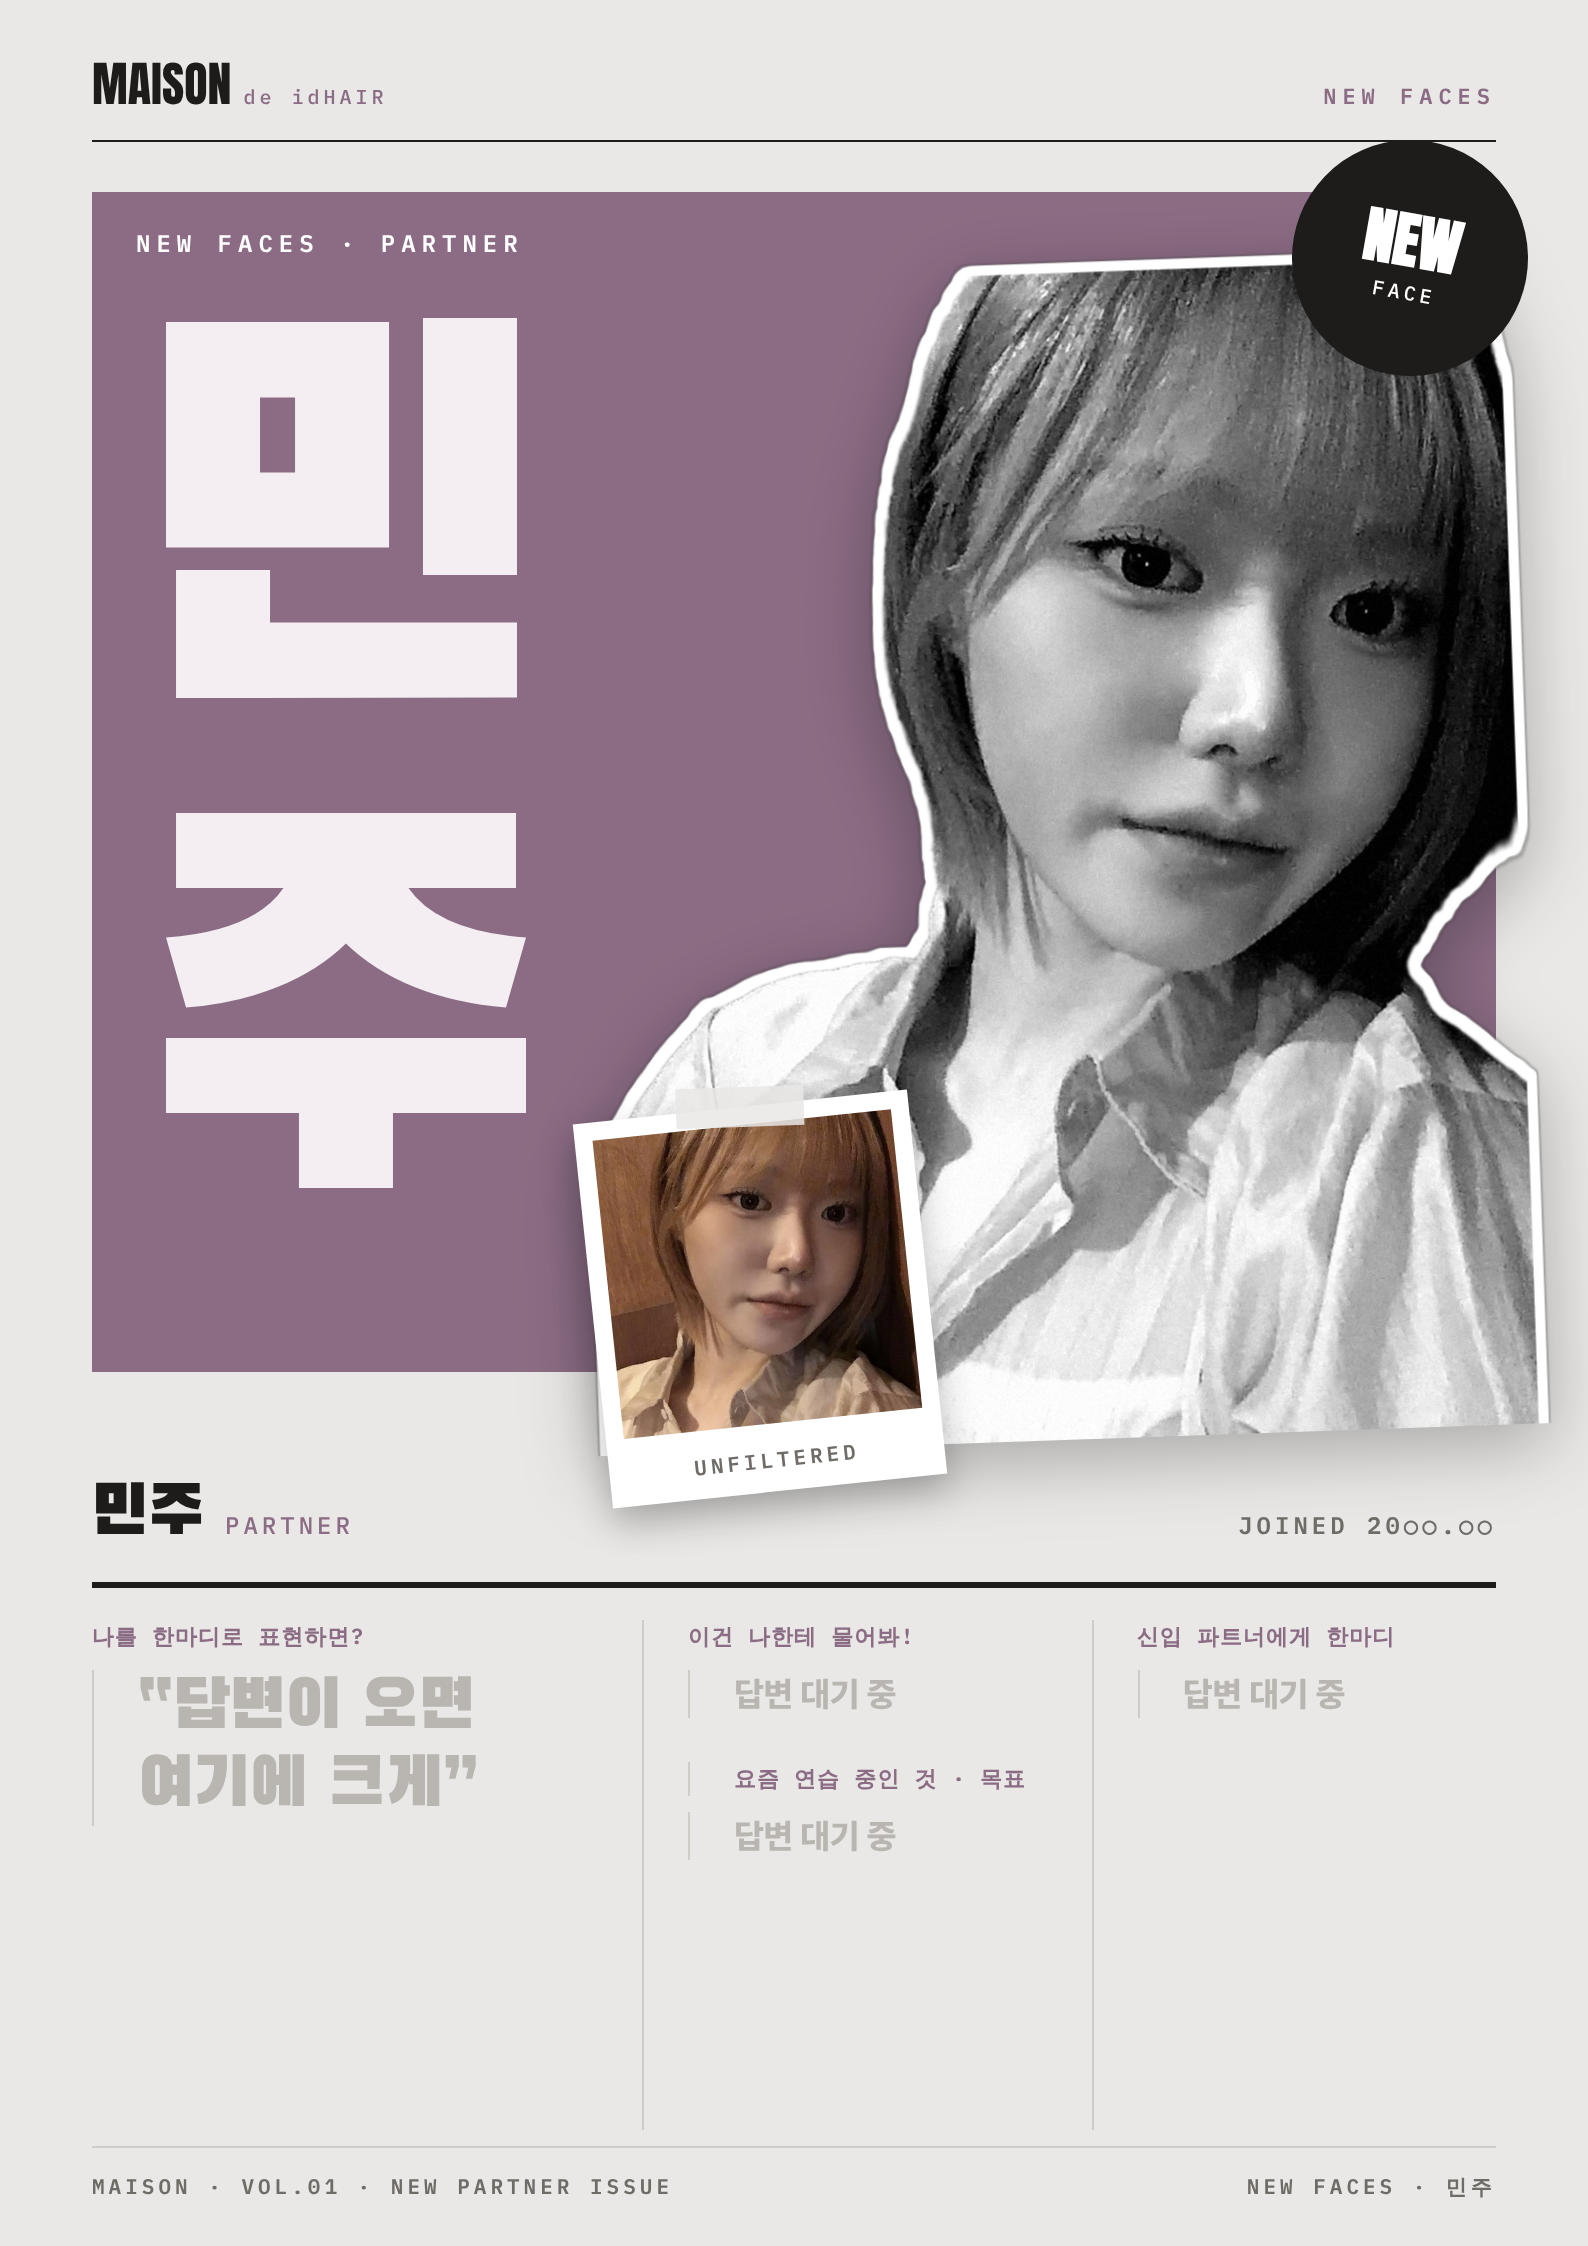
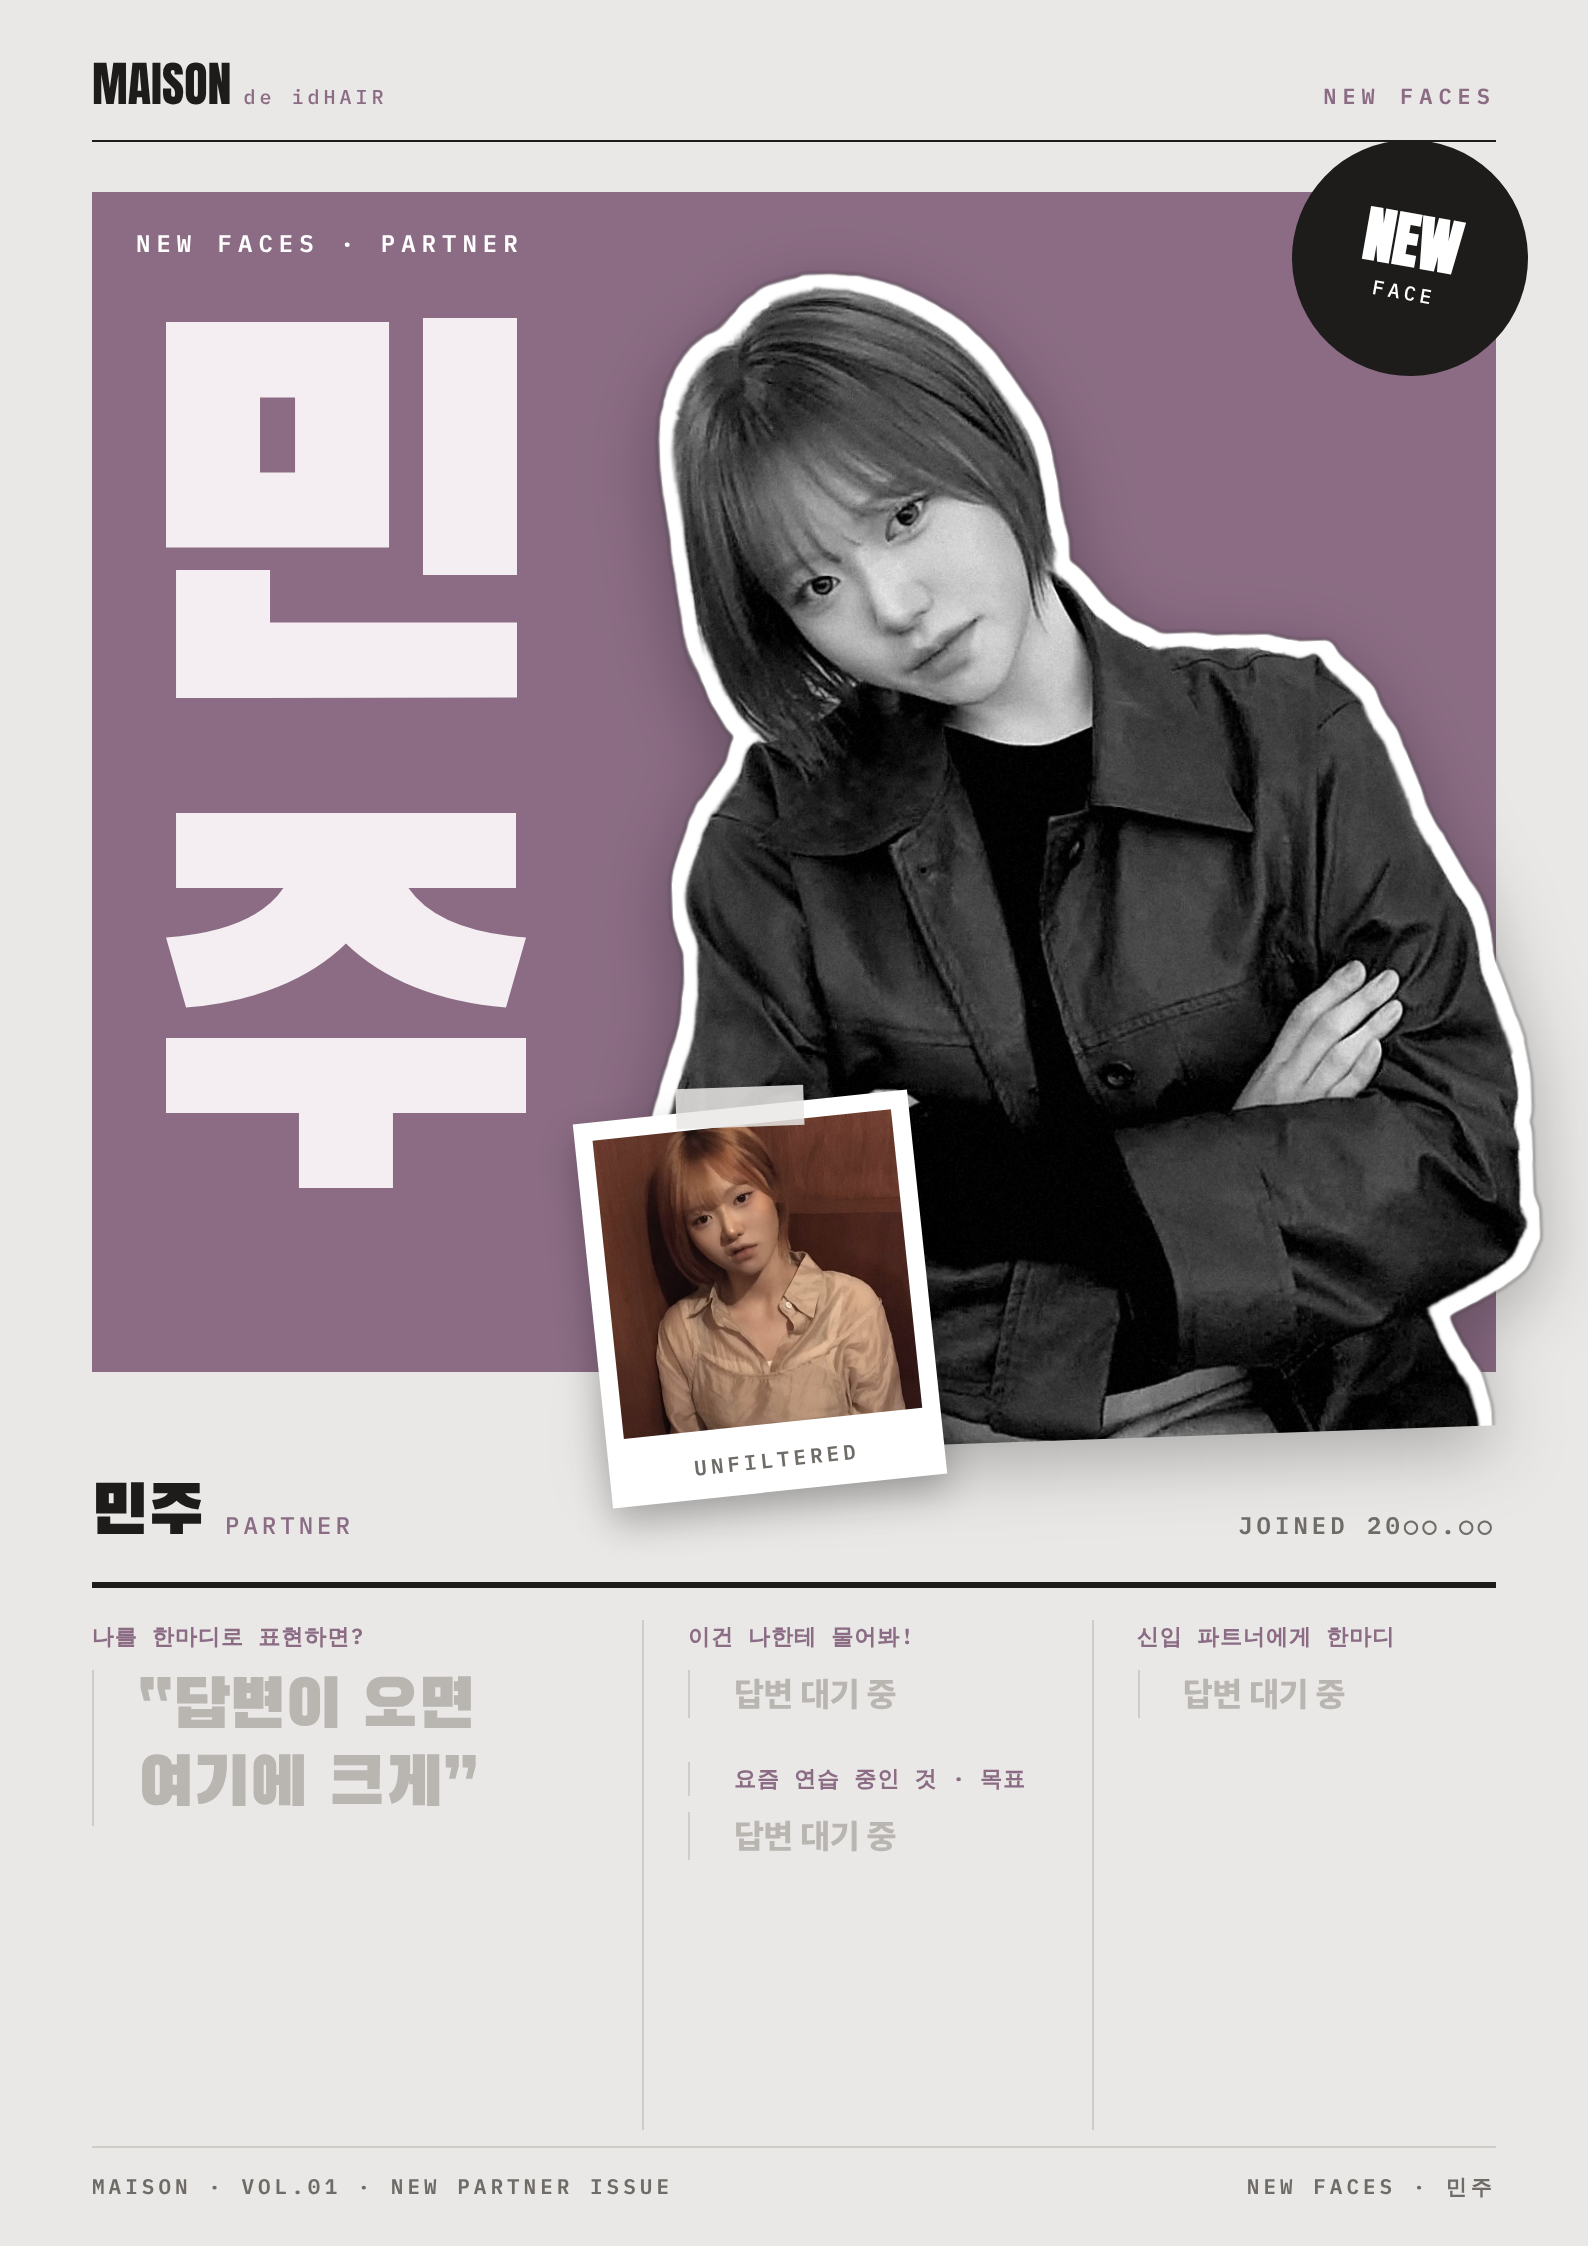
Partner page concept: new photos for 민주
Claude-Session: https://claude.ai/code/session_01G7xqjdnG5meosPjGnPpVVE

Changed region(s): [[0.3703, 0.0935, 0.9874, 0.6545]]

diff --git a/salon/ppt_build/sticker2.py b/salon/ppt_build/sticker2.py
@@ -1,0 +1,40 @@
+# 메인 사진 → 흑백 스티커(BiRefNet 마스크), 두 번째 사진 → 컬러 폴라로이드
+import sys, numpy as np, onnxruntime as ort
+from PIL import Image, ImageOps, ImageEnhance, ImageFilter
+D = "/tmp/claude-0/-home-user-daily-cards/06ef2264-b127-5a98-911e-16c520eb086c/scratchpad/minju/"
+main, second = sys.argv[1], sys.argv[2]
+src = Image.open(main).convert("RGB")
+
+x = np.asarray(src.resize((1024, 1024), Image.LANCZOS)).astype(np.float32) / 255.0
+x = ((x - [0.485, 0.456, 0.406]) / [0.229, 0.224, 0.225]).transpose(2, 0, 1)[None].astype(np.float32)
+sess = ort.InferenceSession(D + "birefnet.onnx", providers=["CPUExecutionProvider"])
+p = 1 / (1 + np.exp(-sess.run(None, {"input_image": x})[0][0, 0]))
+m = Image.fromarray((np.clip(p, 0, 1) * 255).astype(np.uint8)).resize(src.size, Image.LANCZOS)
+m = m.point(lambda v: 0 if v < 40 else (255 if v > 215 else int((v - 40) / 175 * 255))).filter(ImageFilter.GaussianBlur(1.0))
+m.save(D + "mask_main.png")
+
+g = ImageOps.grayscale(src)
+g = ImageOps.autocontrast(g, cutoff=0.8)
+g = ImageEnhance.Contrast(g).enhance(1.12)
+g = g.point(lambda v: int(255 * ((v / 255) ** 0.85)))
+g = g.filter(ImageFilter.UnsharpMask(radius=2, percent=60, threshold=2))
+arr = np.asarray(g).astype(np.float32) + np.random.default_rng(5).normal(0, 6, g.size[::-1])
+person = Image.fromarray(np.clip(arr, 0, 255).astype(np.uint8)).convert("RGB")
+
+pad = 40
+big = Image.new("L", (src.width + pad * 2, src.height + pad * 2), 0); big.paste(m, (pad, pad))
+outline = big.filter(ImageFilter.MaxFilter(25)).filter(ImageFilter.GaussianBlur(2)).point(lambda v: 255 if v > 110 else int(v * 2.3))
+canvas = Image.new("RGBA", big.size, (0, 0, 0, 0))
+canvas.paste(Image.new("RGBA", big.size, (255, 255, 255, 255)), (0, 0), outline)
+pl = Image.new("RGBA", big.size, (0, 0, 0, 0)); pl.paste(person, (pad, pad))
+canvas.paste(pl, (0, 0), big)
+bbox = canvas.getbbox(); canvas = canvas.crop((bbox[0], bbox[1], bbox[2], canvas.height - pad))
+canvas.thumbnail((1100, 1400), Image.LANCZOS)
+canvas.save(D + "sticker.png", optimize=True)
+
+s = Image.open(second).convert("RGB")
+side = int(s.width * 0.70); x0 = int(s.width * 0.20); y0 = int(s.height * 0.16)
+pol = s.crop((x0, y0, x0 + side, y0 + side)).resize((560, 560), Image.LANCZOS)
+pol = ImageEnhance.Color(pol).enhance(0.9)
+pol.save(D + "snap.jpg", quality=86)
+print("ok", canvas.size)
